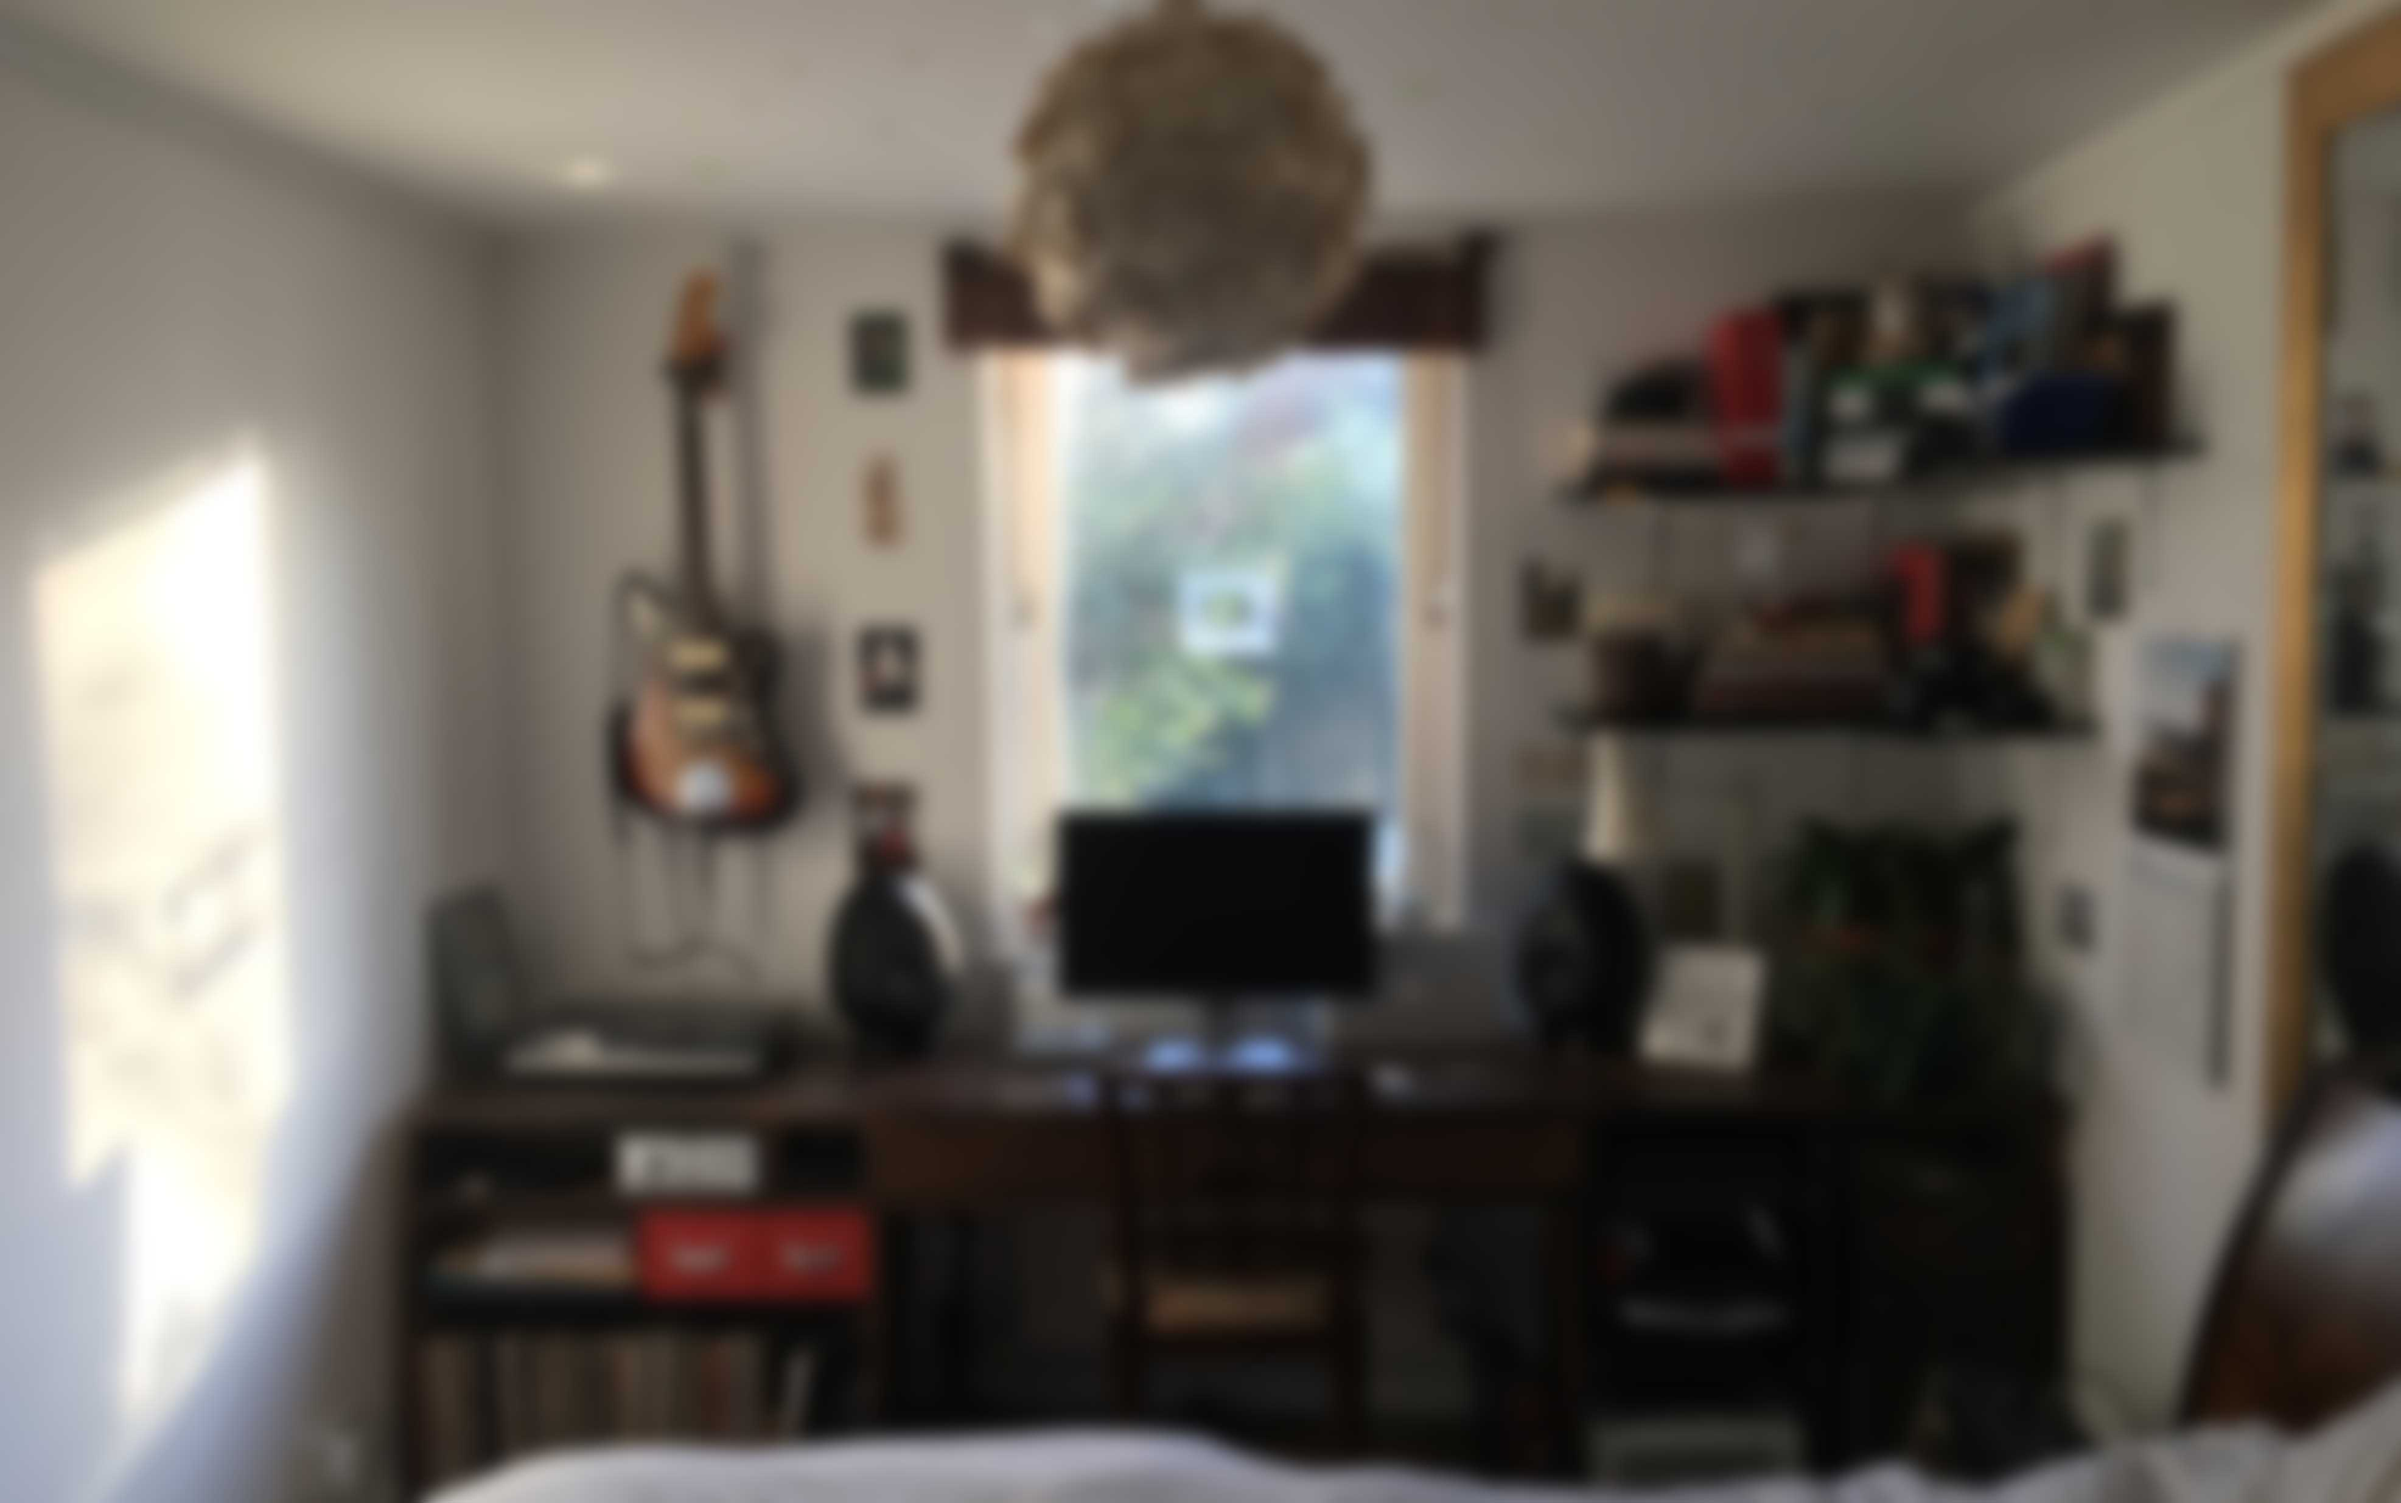
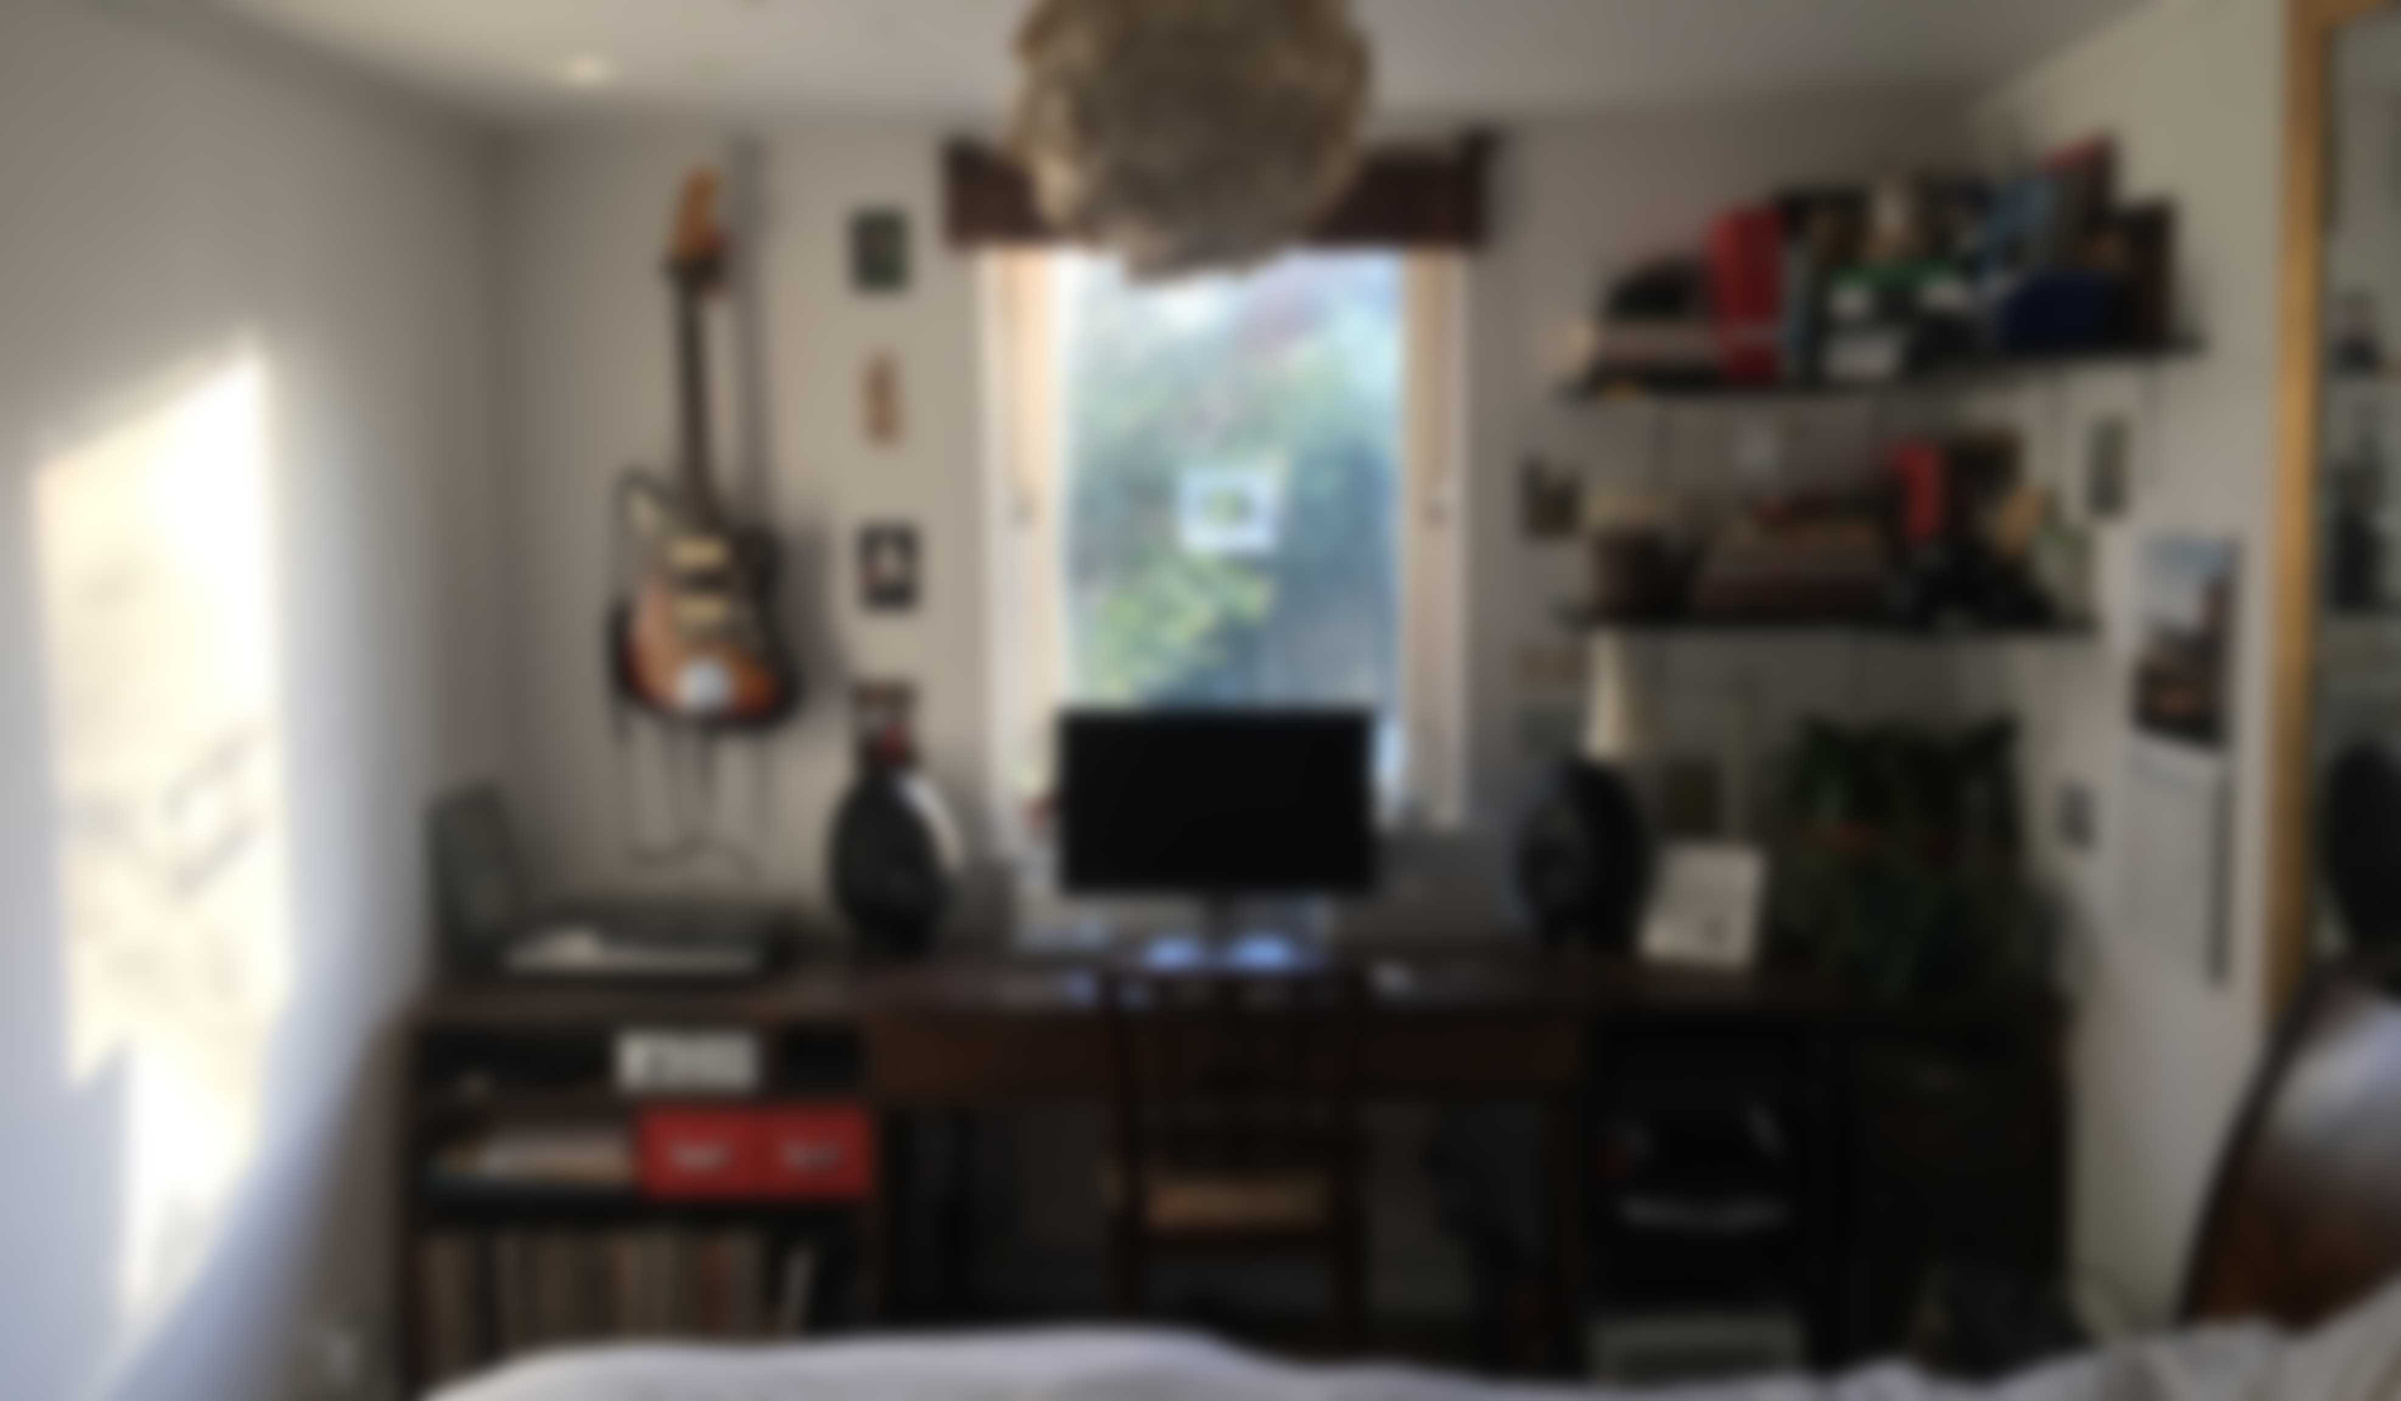
.

diff --git a/style.css b/style.css
@@ -1,13 +1,14 @@
 html {
-  height: 100%;
+  max-height: 100%;
+ 
 }
 
 body {
-  min-height: 100%;
+  min-height: 501px;
   min-width:800px;
   width:100%;
   min-width:100%;
-  max-width:calc(height*1.78);
+  max-width:calc(100vh * 1.596);
   background: #fff;
   position: relative;
   margin: 0 auto;
@@ -21,7 +22,7 @@ body {
 #deskImageDiv {
   width:100%;
   min-height:100%;
-	min-width:200vh;
+	min-width:159.6vh;
   position: relative;
   display: block;
   margin: 0px auto;
@@ -59,7 +60,7 @@ body {
   left:0;
   z-index: 13;
   opacity: 0;
-  background:url(https://raw.githubusercontent.com/tommyhyatt/tommyhyatt.github.io/master/images/newDeskImageBlur.jpg);
+  background:url(images/newDeskImageBlur.jpg);
   background-size:cover;
   -webkit-transition: opacity 500ms ease-in;
   -moz-transition: opacity 500ms ease-in;
@@ -76,7 +77,7 @@ body {
   left:0;
   z-index: 20;
   opacity: 1;
-  background:url(https://raw.githubusercontent.com/tommyhyatt/tommyhyatt.github.io/master/images/newDeskImageBlur.jpg);
+  background:url(newDeskImageBlur.jpg);
   background-size:cover;
   -webkit-transition: opacity 500ms ease-in;
   -moz-transition: opacity 500ms ease-in;

diff --git a/index.html b/index.html
@@ -3,7 +3,7 @@
 
 <head>
   <link rel="stylesheet" href="style.css" type="text/css" media="all">
-  <meta property="og:description" content="A website about my handmade desk, and by extension me">
+  <meta property="og:description" content="A website about my handmade desk and, by extension, me">
   <meta property="og:title" content="The Desk" />
   <meta name="viewport" content="width=device-width, initial-scale=1">
   <link href="https://fonts.googleapis.com/css?family=Arvo:400,400i,700" rel="stylesheet">
@@ -14,7 +14,7 @@
   
   </div>
   <div id="deskImageDiv">
-    <img id="deskImage" src="https://raw.githubusercontent.com/tommyhyatt/tommyhyatt.github.io/master/images/newDeskImage.jpg"><div id="screen"></div><a href="#modal1">
+    <img id="deskImage" src="images/newDeskImage.jpg"><div id="screen"></div><a href="#modal1">
       <div class="popUpTrigger" id="turntable">
       </div>
     </a>
